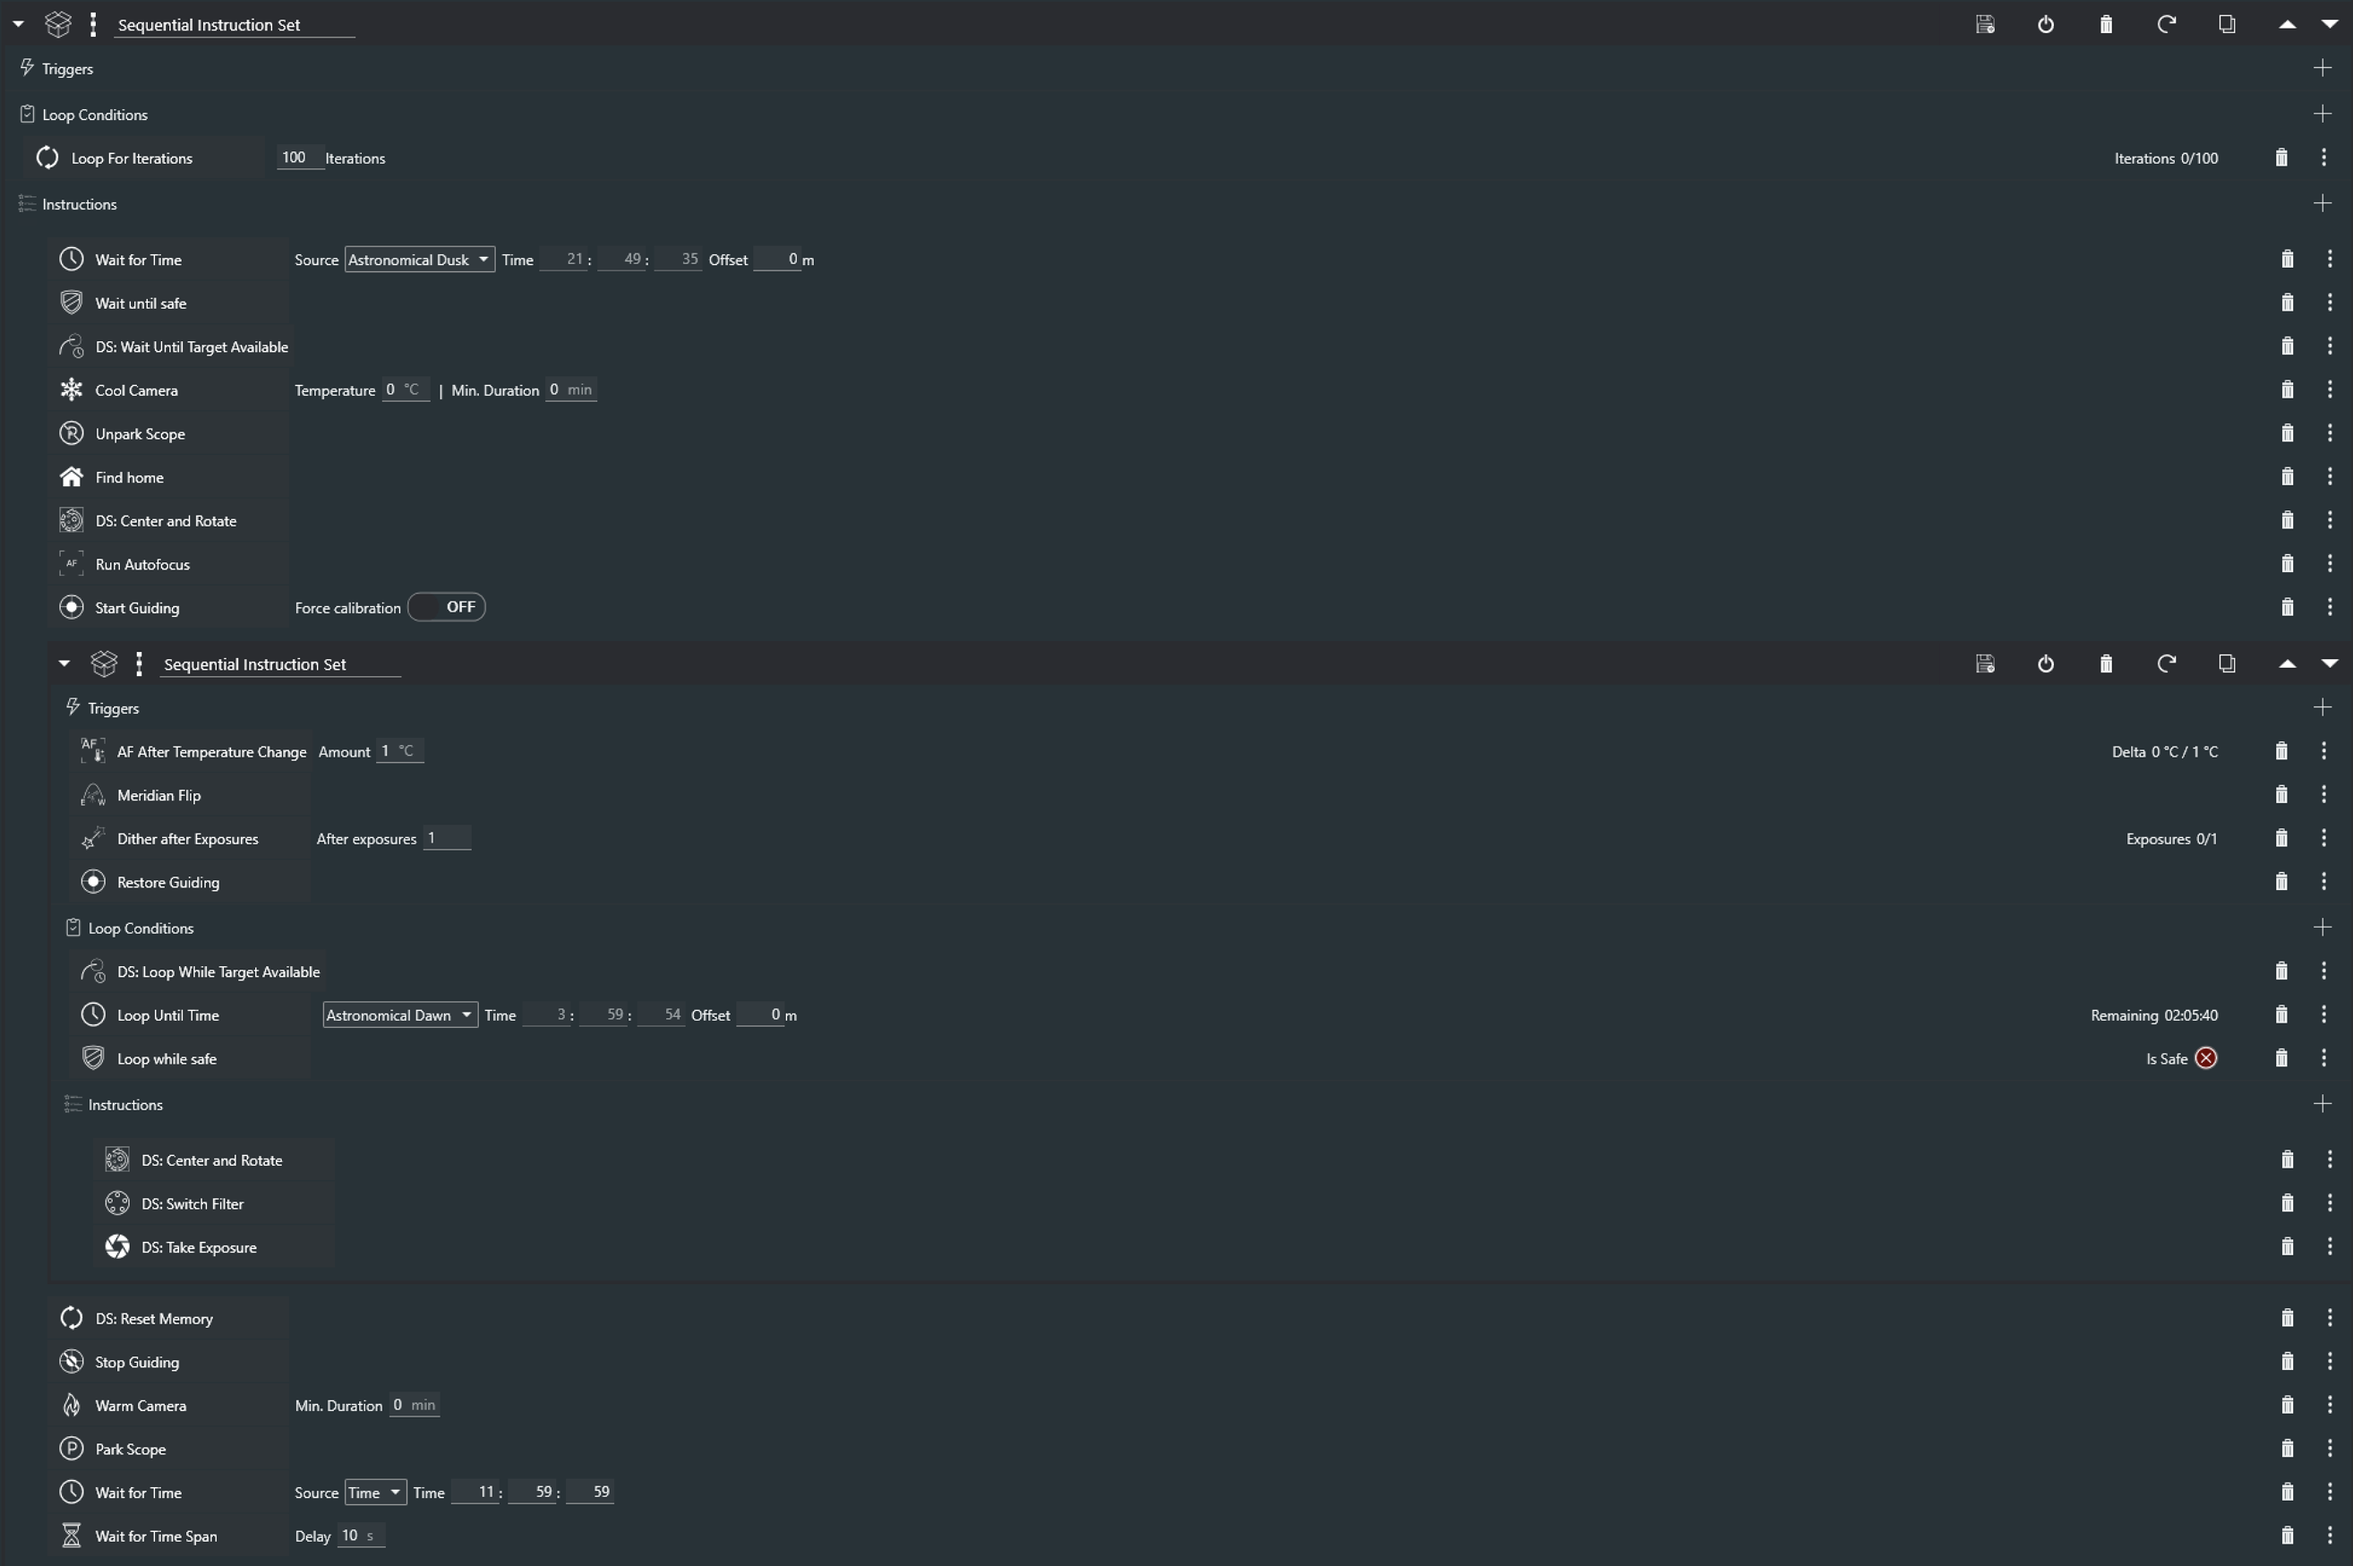
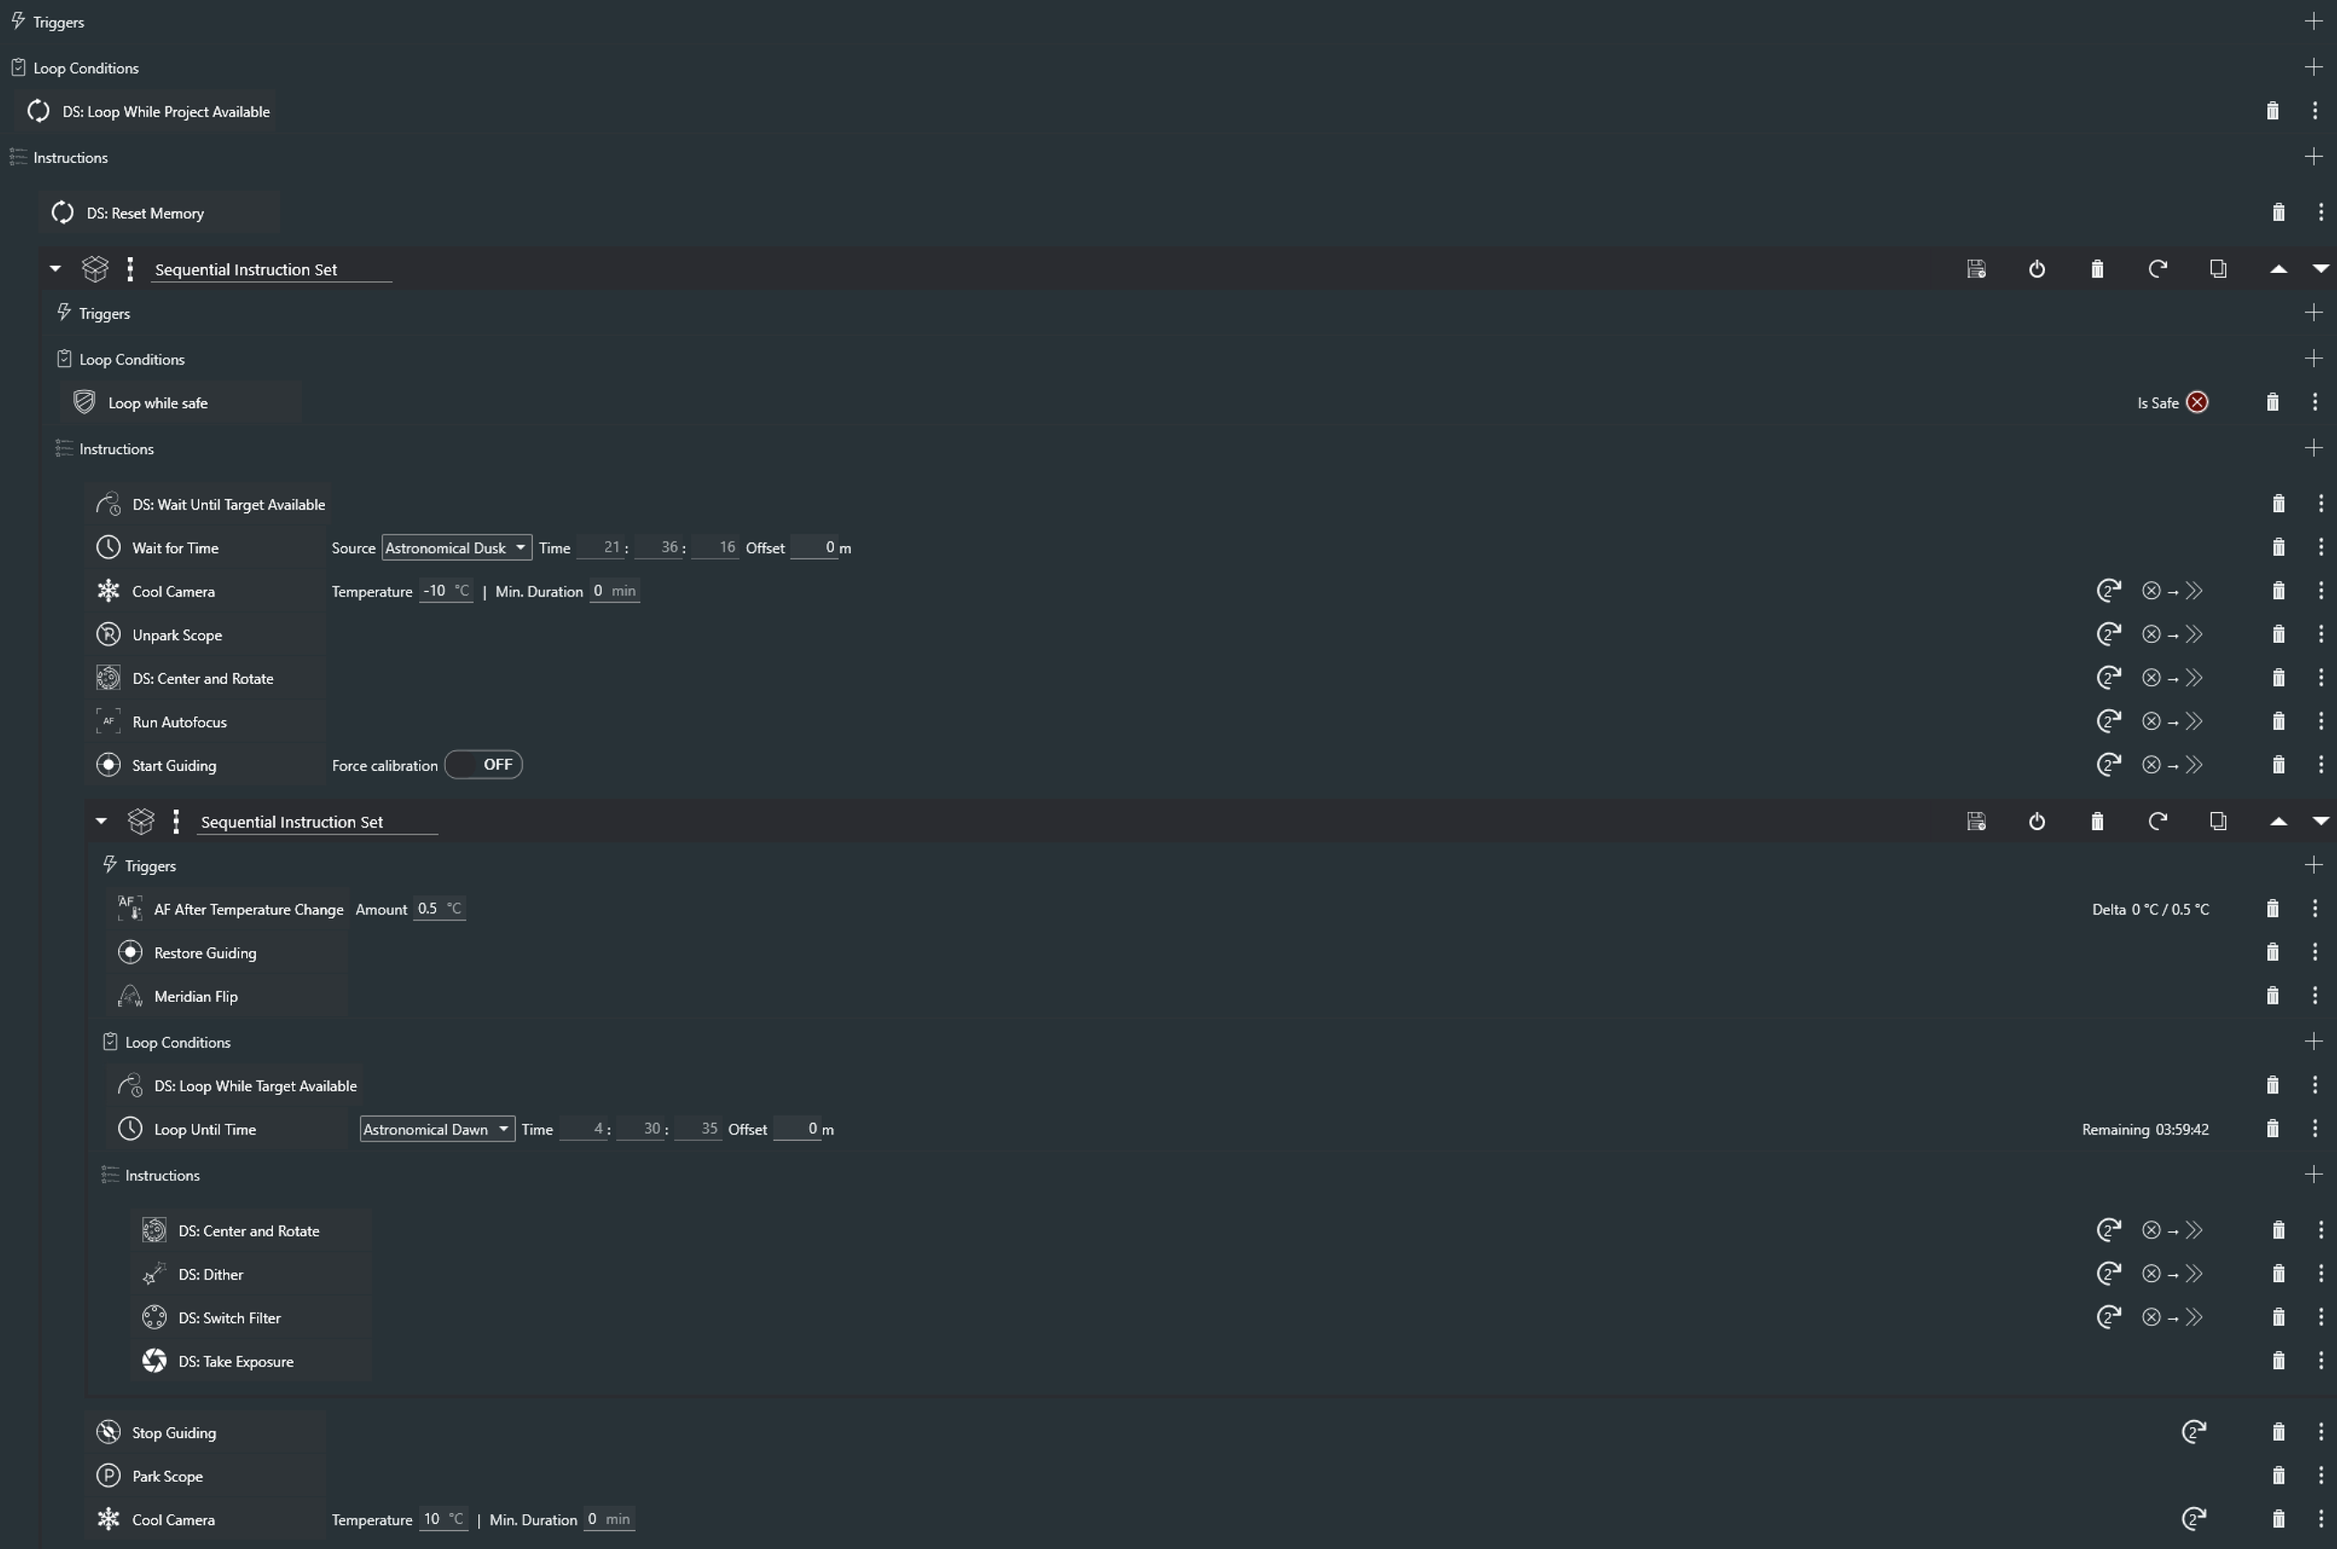
Add DynamicDither

diff --git a/SequencerItems/DynamicDither.cs b/SequencerItems/DynamicDither.cs
@@ -1,0 +1,79 @@
+using System;
+using System.ComponentModel.Composition;
+using System.Threading;
+using System.Threading.Tasks;
+
+using DanielHeEGG.NINA.DynamicSequencer.PlannerEngine;
+
+using NINA.Core.Model;
+using NINA.Core.Utility.Notification;
+using NINA.Equipment.Interfaces.Mediator;
+using NINA.Profile.Interfaces;
+using NINA.Sequencer.SequenceItem;
+
+namespace DanielHeEGG.NINA.DynamicSequencer.SequencerItems
+{
+    [ExportMetadata("Name", "DS: Dither")]
+    [ExportMetadata("Description", "")]
+    [ExportMetadata("Icon", "DitherSVG")]
+    [ExportMetadata("Category", "Lbl_SequenceCategory_Guider")]
+    [Export(typeof(ISequenceItem))]
+    public class DynamicDither : SequenceItem
+    {
+        private IProfileService _profileService;
+        private IGuiderMediator _guiderMediator;
+
+        [ImportingConstructor]
+        public DynamicDither(IProfileService profileService, IGuiderMediator guiderMediator)
+        {
+            _profileService = profileService;
+            _guiderMediator = guiderMediator;
+        }
+
+        private DynamicDither(DynamicDither cloneMe) : this(cloneMe._profileService, cloneMe._guiderMediator)
+        {
+            CopyMetaData(cloneMe);
+        }
+
+        public override object Clone()
+        {
+            return new DynamicDither(this);
+        }
+
+        public override Task Execute(IProgress<ApplicationStatus> progress, CancellationToken token)
+        {
+            var planner = new Planner();
+            planner.Filter(_profileService);
+            var project = planner.Best();
+            if (project == null)
+            {
+                Notification.ShowWarning("Skipping DynamicDither - No valid project");
+                throw new SequenceItemSkippedException("Skipping DynamicDither - No valid project");
+            }
+            var target = project.Best();
+            if (target == null)
+            {
+                Notification.ShowWarning("Skipping DynamicDither - No valid target");
+                throw new SequenceItemSkippedException("Skipping DynamicDither - No valid target");
+            }
+            var exposure = target.Best();
+            if (exposure == null)
+            {
+                Notification.ShowWarning("Skipping DynamicDither - No valid exposure");
+                throw new SequenceItemSkippedException("Skipping DynamicDither - No valid exposure");
+            }
+
+            if (DynamicSequencer.ditherLog.ContainsKey(exposure.ToString()) && DynamicSequencer.ditherLog[exposure.ToString()] >= project.ditherEvery)
+            {
+                DynamicSequencer.ditherLog.Clear();
+                return _guiderMediator.Dither(token);
+            }
+            return Task.CompletedTask;
+        }
+
+        public override TimeSpan GetEstimatedDuration()
+        {
+            return TimeSpan.FromSeconds(_profileService.ActiveProfile.GuiderSettings.SettleTimeout);
+        }
+    }
+}

diff --git a/PlannerEngine/PProject.cs b/PlannerEngine/PProject.cs
@@ -15,6 +15,7 @@ namespace DanielHeEGG.NINA.DynamicSequencer.PlannerEngine
         public string name { get; set; }
         public bool active { get; set; }
         public int priority { get; set; }
+        public int ditherEvery { get; set; }
         public double minimumAltitude { get; set; }
         public double horizonOffset { get; set; }
         public bool balanceTargets { get; set; }
@@ -134,7 +135,7 @@ namespace DanielHeEGG.NINA.DynamicSequencer.PlannerEngine
 
         public override string ToString()
         {
-            return string.Join("_", name, active, priority, minimumAltitude, horizonOffset, balanceTargets, imageGrader);
+            return string.Join("_", name, active, priority, ditherEvery, minimumAltitude, horizonOffset, balanceTargets, imageGrader);
         }
     }
 }

diff --git a/DynamicSequencer.cs b/DynamicSequencer.cs
@@ -1,4 +1,5 @@
-using System.ComponentModel.Composition;
+using System.Collections.Generic;
+using System.ComponentModel.Composition;
 
 using DanielHeEGG.NINA.DynamicSequencer.PlannerEngine;
 
@@ -16,6 +17,7 @@ namespace DanielHeEGG.NINA.DynamicSequencer
     {
         public static string previousProject = "";
         public static string previousTarget = "";
+        public static Dictionary<string, int> ditherLog = new Dictionary<string, int>();
 
         private readonly IProfileService _profileService;
 

diff --git a/SequencerItems/DynamicExposure.cs b/SequencerItems/DynamicExposure.cs
@@ -118,6 +118,9 @@ namespace DanielHeEGG.NINA.DynamicSequencer.SequencerItems
             {
                 exposure.acceptedAmount++;
                 planner.WriteFiles();
+
+                if (DynamicSequencer.ditherLog.ContainsKey(exposure.ToString())) DynamicSequencer.ditherLog[exposure.ToString()]++;
+                else DynamicSequencer.ditherLog.Add(exposure.ToString(), 1);
             }
             else
             {

diff --git a/SequencerItems/DynamicCenterAndRotate.cs b/SequencerItems/DynamicCenterAndRotate.cs
@@ -211,6 +211,7 @@ namespace DanielHeEGG.NINA.DynamicSequencer.SequencerItems
             {
                 DynamicSequencer.previousProject = project.ToString();
                 DynamicSequencer.previousTarget = target.ToString();
+                DynamicSequencer.ditherLog.Clear();
 
                 if (stoppedGuiding)
                 {

diff --git a/SequencerItems/ResetMemory.cs b/SequencerItems/ResetMemory.cs
@@ -31,6 +31,7 @@ namespace DanielHeEGG.NINA.DynamicSequencer.SequencerItems
         {
             DynamicSequencer.previousProject = "";
             DynamicSequencer.previousTarget = "";
+            DynamicSequencer.ditherLog.Clear();
             return Task.CompletedTask;
         }
 

diff --git a/README.md b/README.md
@@ -29,6 +29,7 @@ If you're looking for a more straightforward and plug-and-play solution, Target 
 | name | string | Name of the project | `"M31"` |
 | active | bool | Project is active when `true`. | `true` |
 | priority | int | Project priority, lower number is higher priority. | `0` |
+| ditherEvery | int | Amount of frames to take of each filter before dithering | `1` |
 | minimumAltitude | double | Minimum altitude (in degrees) of a target for it to be considered. Set to `0` to disable. | `0` |
 | horizonOffset | double | Minimum altitude (in degress) above the custom horizon  of a target for it to be considered. Disabled if no custom horizon file exists. | `5` |
 | balanceTargets | bool | When set to `true`, the planner will prioritize the *least* completed target in a project, vice versa. This is helpful for balancing mosaic panels. Does nothing when only one target exists in the project. | `true` |
@@ -58,6 +59,7 @@ A valid project JSON file may look something like this:
 	"name": "M31",
 	"active": true,
 	"priority": 0,
+	"ditherEvery": 1,
 	"minimumAltitude": 0,
 	"horizonOffset": 5,
 	"balanceTargets": true,
@@ -153,6 +155,9 @@ Takes one exposure in accordance to the exposure plan selected by the planning e
 
 #### `DS: Switch Filter`
 Switches filter in accordance to the exposure plan selected by the planning engine.
+
+#### `DS: Dither`
+Sends a dither command to the guiding software when conditions are met. Configurable with the `ditherEvery` setting. This instruction will only send a dither command if the number of frames shot in *any filter* since the last dither/slew exceeds the setting. For example, when `ditherEvery = 1`, a series of frames may look something like this: `SHO'SHO'SHO` or `L'L'LRGB'L'L'LRGB`. Or when `ditherEvery = 2` it may look like: `SHOSHO'SHOSHO` or `LL'LRGBL'LLRGB'LL`.
 
 #### `DS: Wait Until Target Available`
 Waits indefinitely until at least one target is returned from the planning engine. Note: the planning engine does not filter for sun altitude, so this should be used along with `Wait if Sun Altitude` or `Wait for Time`.
